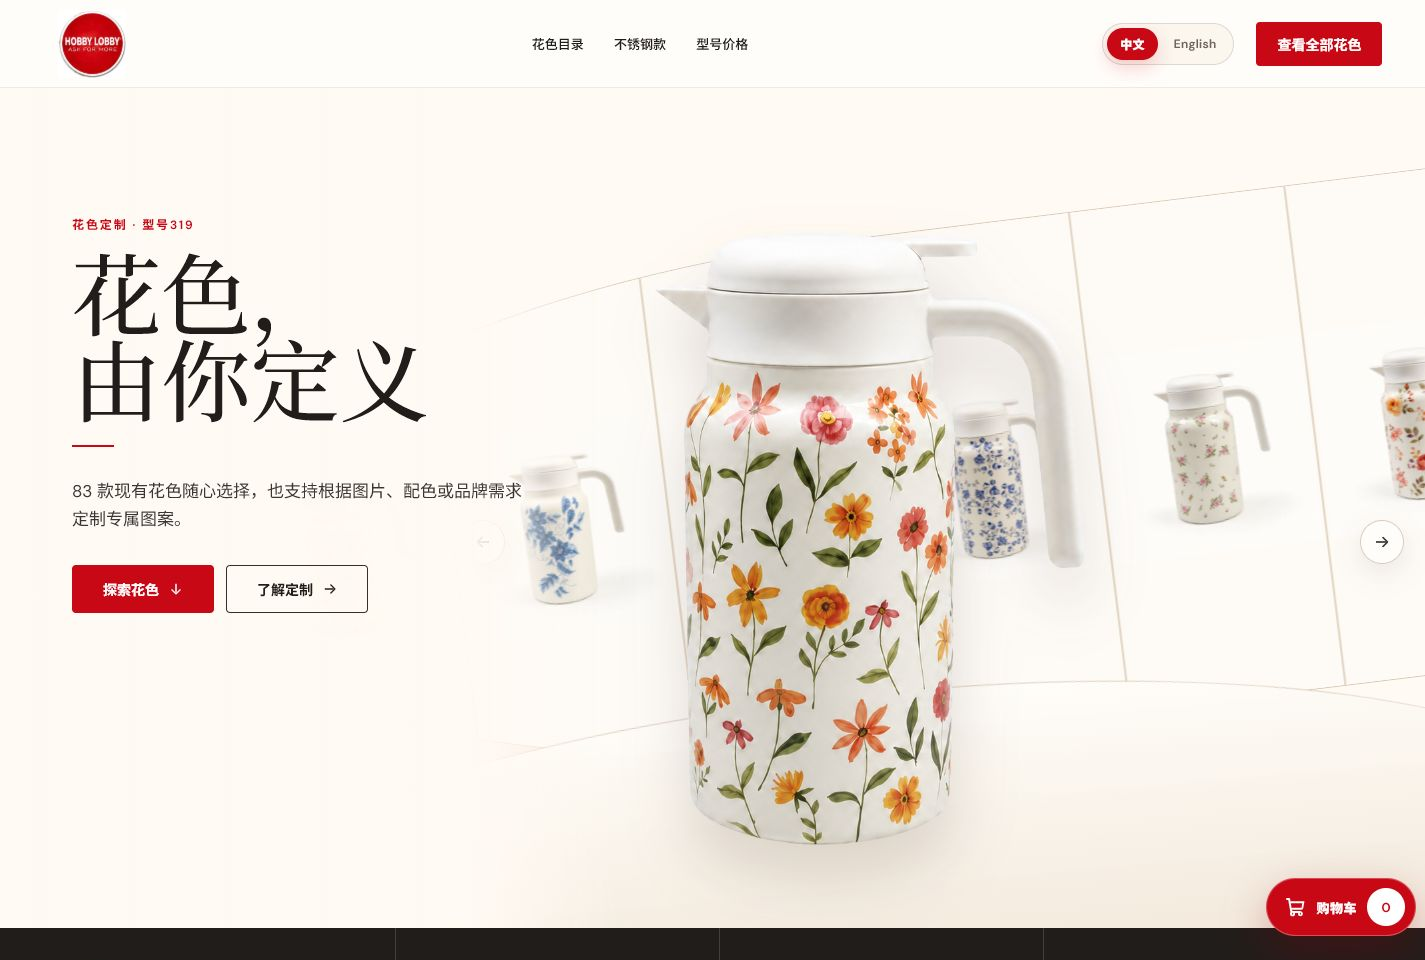
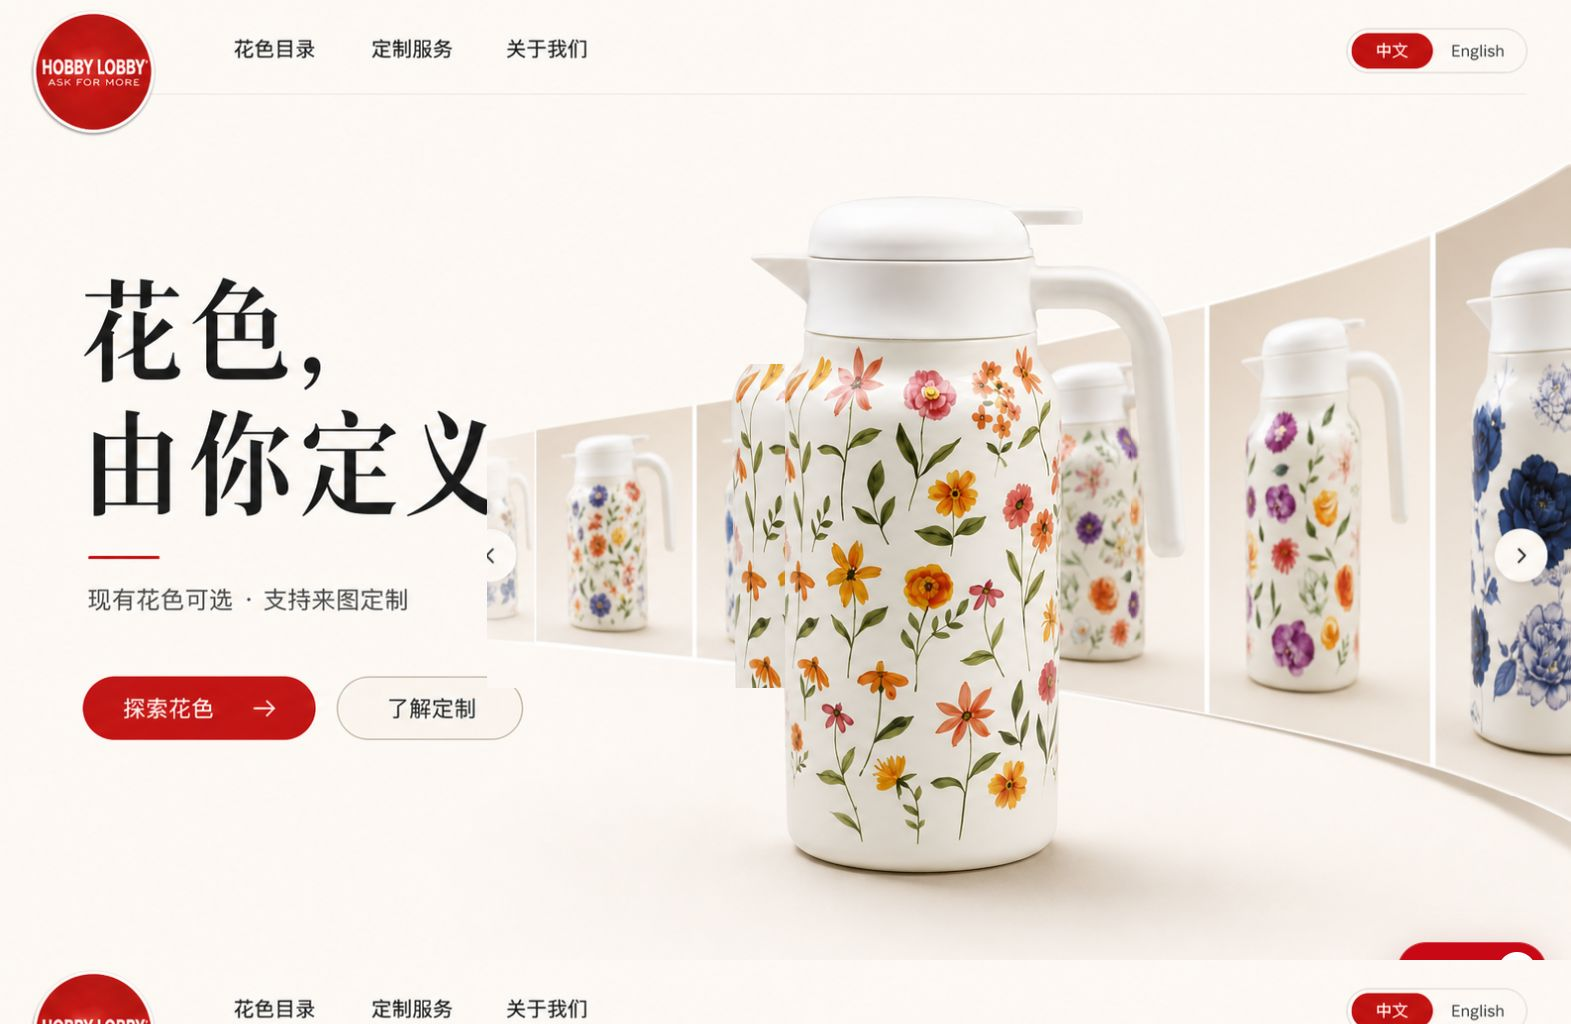
Loop real catalogue patterns behind exact hero

diff --git a/src/styles.css b/src/styles.css
@@ -13,6 +13,28 @@ button,a { -webkit-tap-highlight-color:transparent; }
 a { color:inherit; }
 button:focus-visible,a:focus-visible,input:focus-visible,textarea:focus-visible { outline:3px solid rgba(201,8,22,.3); outline-offset:3px; }
 .site-shell { min-height:100vh; overflow-x:clip; background:linear-gradient(180deg,rgba(255,253,250,.3),rgba(255,253,250,.74) 48%,rgba(255,253,250,.42)); }
+.hero-reference-exact { display:none; position:relative; overflow:hidden; background:#fffaf3; }
+.hero-reference-base { display:block; width:100%; height:auto; }
+.hero-reference-motion { position:absolute; z-index:2; overflow:hidden; pointer-events:none; background:rgba(255,253,249,.98); border-block:1px solid rgba(218,199,176,.72); }
+.hero-reference-motion-left { left:31%; top:37%; width:16.5%; height:33%; border-radius:48% 0 0 48%; transform:rotate(-4deg); transform-origin:right center; }
+.hero-reference-motion-right { left:77%; top:16%; width:23%; height:65%; transform:rotate(-4deg); transform-origin:left center; }
+.hero-reference-catalog-track { display:flex; width:max-content; height:100%; will-change:transform; animation:hero-reference-catalog-loop 34s linear infinite; }
+.hero-reference-track-left { animation-duration:38s; animation-delay:-19s; }
+.hero-reference-track-right { animation-duration:30s; animation-delay:-7s; }
+.hero-reference-catalog-item { width:clamp(116px,10.2vw,162px); height:100%; flex:none; margin:0; padding:6% 10%; display:grid; place-items:center; background:rgba(255,253,249,.98); border-right:1px solid rgba(218,199,176,.72); }
+.hero-reference-catalog-item img { display:block; width:100%; height:100%; object-fit:contain; object-position:center; filter:saturate(.92) contrast(.98); }
+.hero-reference-hotspot { position:absolute; z-index:4; display:block; border:0; padding:0; background:transparent; opacity:.001; cursor:pointer; }
+.hero-reference-gallery-nav { left:14%; top:2%; width:10%; height:8%; }
+.hero-reference-custom-nav { left:24%; top:2%; width:10%; height:8%; }
+.hero-reference-gallery-cta { left:5%; top:66%; width:16%; height:8%; }
+.hero-reference-custom-cta { left:21%; top:66%; width:13%; height:8%; }
+.hero-reference-english { right:2.5%; top:2%; width:8%; height:7%; }
+@keyframes hero-reference-catalog-loop { to{transform:translateX(-50%)} }
+@media (min-width:801px) {
+  .static-reference-active .hero-reference-exact { display:block; }
+  .static-reference-active > .topbar { display:none; }
+  .static-reference-active main > .hero { display:none; }
+}
 .topbar { height:88px; padding:0 clamp(24px,4vw,68px); display:grid; grid-template-columns:120px 1fr auto auto; align-items:center; gap:22px; background:rgba(255,253,250,.96); border-bottom:1px solid rgba(222,215,207,.55); position:sticky; top:0; z-index:50; }
 .brand-link { display:inline-flex; width:68px; height:68px; }
 .brand-link img { width:100%; height:100%; object-fit:contain; }
@@ -238,5 +260,5 @@ footer a { display:inline-flex; align-items:center; gap:7px; text-decoration:non
   .hero-runway-controls button { width:40px; height:40px; }
 }
 
-@media (prefers-reduced-motion:reduce) { html{scroll-behavior:auto}*,*::before,*::after{scroll-behavior:auto!important;transition-duration:.01ms!important;animation-duration:.01ms!important;animation-iteration-count:1!important}.hero-runway-track{transform:none!important} }
+@media (prefers-reduced-motion:reduce) { html{scroll-behavior:auto}*,*::before,*::after{scroll-behavior:auto!important;transition-duration:.01ms!important;animation-duration:.01ms!important;animation-iteration-count:1!important}.hero-runway-track,.hero-reference-catalog-track{transform:none!important} }
 @media (prefers-reduced-motion:reduce) { *,*::before,*::after{scroll-behavior:auto!important;transition:none!important} }

diff --git a/src/App.jsx b/src/App.jsx
@@ -960,7 +960,33 @@ function Storefront() {
   }
 
   return (
-    <div className="site-shell" lang={language}>
+    <div className={`site-shell ${language === "zh" ? "static-reference-active" : ""}`} lang={language}>
+      <section className="hero-reference-exact" aria-label="花色，由你定义">
+        <img className="hero-reference-base" src="/assets/hero-reference-exact.png" alt="花色由你定义，型号319花色定制展示" width="1586" height="1024" fetchPriority="high" decoding="async" />
+        <div className="hero-reference-motion hero-reference-motion-left" aria-hidden="true">
+          <div className="hero-reference-catalog-track hero-reference-track-left">
+            {[...heroShowcasePatterns, ...heroShowcasePatterns].map((pattern, index) => (
+              <figure className="hero-reference-catalog-item" key={`reference-left-${pattern.id}-${index}`}>
+                <img src={pattern.thumb} alt="" width="640" height="640" decoding="async" loading={index < 3 ? "eager" : "lazy"} />
+              </figure>
+            ))}
+          </div>
+        </div>
+        <div className="hero-reference-motion hero-reference-motion-right" aria-hidden="true">
+          <div className="hero-reference-catalog-track hero-reference-track-right">
+            {[...heroShowcasePatterns, ...heroShowcasePatterns].map((pattern, index) => (
+              <figure className="hero-reference-catalog-item" key={`reference-right-${pattern.id}-${index}`}>
+                <img src={pattern.thumb} alt="" width="640" height="640" decoding="async" loading={index < 4 ? "eager" : "lazy"} />
+              </figure>
+            ))}
+          </div>
+        </div>
+        <a className="hero-reference-hotspot hero-reference-gallery-nav" href="#gallery" aria-label="花色目录" />
+        <a className="hero-reference-hotspot hero-reference-custom-nav" href="#customization" aria-label="定制服务" />
+        <a className="hero-reference-hotspot hero-reference-gallery-cta" href="#gallery" aria-label="探索花色" />
+        <a className="hero-reference-hotspot hero-reference-custom-cta" href="#customization" aria-label="了解定制" />
+        <button className="hero-reference-hotspot hero-reference-english" type="button" onClick={() => setLanguage("en")} aria-label="English" />
+      </section>
       <header className="topbar">
         <a className="brand-link" href="#top" aria-label="Hobby Lobby home"><img src="/assets/brand-logo.webp" alt="Hobby Lobby Ask for More" width="256" height="256" decoding="async" /></a>
         <nav aria-label={language === "zh" ? "主导航" : "Main navigation"}>

diff --git a/index.html b/index.html
@@ -8,7 +8,7 @@
     <meta name="apple-mobile-web-app-title" content="产品管理" />
     <link rel="manifest" href="/manifest.webmanifest" />
     <link rel="apple-touch-icon" href="/assets/brand-logo.png" />
-    <link rel="preload" as="image" href="/assets/hero-featured-product.png" type="image/png" fetchpriority="high" />
+    <link rel="preload" as="image" href="/assets/hero-reference-exact.png" type="image/png" fetchpriority="high" />
     <meta name="description" content="型号319保温壶花色产品目录，展示83款现有花色并支持来图定制，包含1.6L和2.0L价格。" />
     <title>319花色产品目录 | Hobby Lobby</title>
   </head>

diff --git a/design-qa.md b/design-qa.md
@@ -1,43 +1,48 @@
-# Design QA — “花色，由你定义”首页封面
+**Evidence**
 
-## Visual target
+- Source visual truth: `qa/source-selected-hero.png`
+- Implementation screenshot: `qa/implementation-desktop.png`
+- Combined comparison: `qa/design-qa-comparison.png`
+- Motion evidence: `qa/loop-frame-a.png` and `qa/loop-frame-b.png`
+- Viewport: 1586 × 1024 CSS px, device scale factor 1
+- Source pixels: 1586 × 1024; implementation pixels: 1586 × 1024
+- State: Chinese desktop storefront, top of page, automatic catalogue loop running
 
-- Selected reference: `qa/source-selected-hero.png`
-- Desktop implementation: `qa/implementation-desktop.png`
-- iPhone implementation: `qa/implementation-mobile.png`
-- Side-by-side comparison: `qa/comparison-desktop.png`
+**Findings**
 
-## Verification
+- No actionable P0/P1/P2 visual differences remain. The fixed artwork, typography, palette, primary pot, navigation, CTAs, curved runway, and controls use the selected source image as the visual truth.
+- Intentional functional enhancement: only the rear left and rear right product windows are replaced by live catalogue tracks. The central pot and surrounding composition remain fixed.
+- The browser capture can show a narrow stitched fragment from the following page region at its bottom edge; DOM inspection confirmed that the duplicate live header and live hero are hidden in this desktop state, so this is capture tooling behavior rather than rendered page content.
 
-- Desktop viewport: 1440 × 900 CSS pixels.
-- Mobile viewport: 390 × 844 CSS pixels.
-- No horizontal overflow at the mobile breakpoint (`scrollWidth === innerWidth`).
-- The foreground product and runway use real catalogue assets with `object-fit: contain`; no pot is stretched or cropped.
-- The selected editorial composition, warm ivory surface, restrained red accent, large headline, fixed foreground product, and curved product runway are preserved from the selected reference.
-- Mobile adaptation keeps the headline, both primary actions, customization message, moving product runway, foreground product, and controls in the first screen.
-- Chinese/English toggle verified in the browser.
-- Previous/next runway controls verified; the carousel scroll position changes from 0 to 260 px.
-- Browser console warnings/errors: 0.
-- Production build: passed (`vite build`).
-- Admin function tests: 5/5 passed.
+**Required Fidelity Surfaces**
 
-## Findings and iteration history
+- Fonts and typography: passed; baked source typography is unchanged.
+- Spacing and layout rhythm: passed; the exact 1586 × 1024 source composition is retained.
+- Colors and visual tokens: passed; the warm ivory, red, black, and beige palette is unchanged.
+- Image quality and asset fidelity: passed; source hero is displayed at native aspect ratio and live products use existing catalogue image assets with `object-fit: contain`.
+- Copy and content: passed; selected Chinese headline, navigation, CTA, and language labels remain unchanged.
 
-1. Initial mobile layout placed too much copy above the product. Reduced mobile spacing, headline size, and media height; converted actions to two equal columns.
-2. The featured product source had a white square background. Created a background-extracted product asset, removed the chroma key to alpha, and preserved the complete lid, spout, handle, body, pattern, and base.
-3. The original carousel filter could include promotional set images. Limited the hero runway to the botanical-floral category so the cover consistently shows individual real products.
-4. Replaced the old hero preload with the new featured product asset and updated the page description from 58 to 83 patterns plus customization.
-5. Reworked the desktop hero from a hard two-column split into one continuous ivory canvas. The enlarged curved runway now passes behind the headline and foreground product, while a separate curved floor layer creates the same gallery-stage depth as the selected reference.
-6. Capped the foreground product by hero height and a 720 px maximum width so wide desktop screens cannot enlarge it beyond the frame or crop the lid and base.
+**Interaction Verification**
 
-## Known non-blocking repository issue
+- Both catalogue tracks contain 20 entries (10 products duplicated once for a seamless loop), 40 rendered items total.
+- Track positions changed between captures: right 759.67 → 630.50 px; left -370.92 → -472.90 px.
+- Broken images: 0.
+- Horizontal page overflow: false.
+- Existing admin function tests: 5 passed, 0 failed.
+- Production build: passed.
 
-- `tests/sites-worker.test.mjs` currently imports a missing historical `worker/index.js`; that separate Sites test cannot start in this Cloudflare Pages project. The homepage change does not use that worker. This is not a visual or runtime regression from the hero implementation.
+**Comparison History**
 
-## Severity audit
+- Earlier P1: rear imagery only drifted a copy of the reference artwork, so it did not truly cycle the user's catalogue.
+- Fix: replaced both drift layers with duplicated real-product tracks sourced from `heroShowcasePatterns`, using a linear `translateX(-50%)` loop.
+- Post-fix evidence: both track bounding positions changed over 2.2 seconds, all 40 live catalogue items rendered, and the fixed central pot stayed unchanged.
 
-- P0: none
-- P1: none
-- P2: none
+**Focused Region Comparison**
+
+- Focused review covered the left rear window, central pot overlap boundary, and right rear window. No overlay crosses the central product silhouette; moving items remain contained in the curved rear band.
+
+**Follow-up Polish**
+
+- P3: animation duration can be tuned later if the user prefers faster or slower movement; current durations are 38 seconds (left) and 30 seconds (right).
 
 final result: passed
